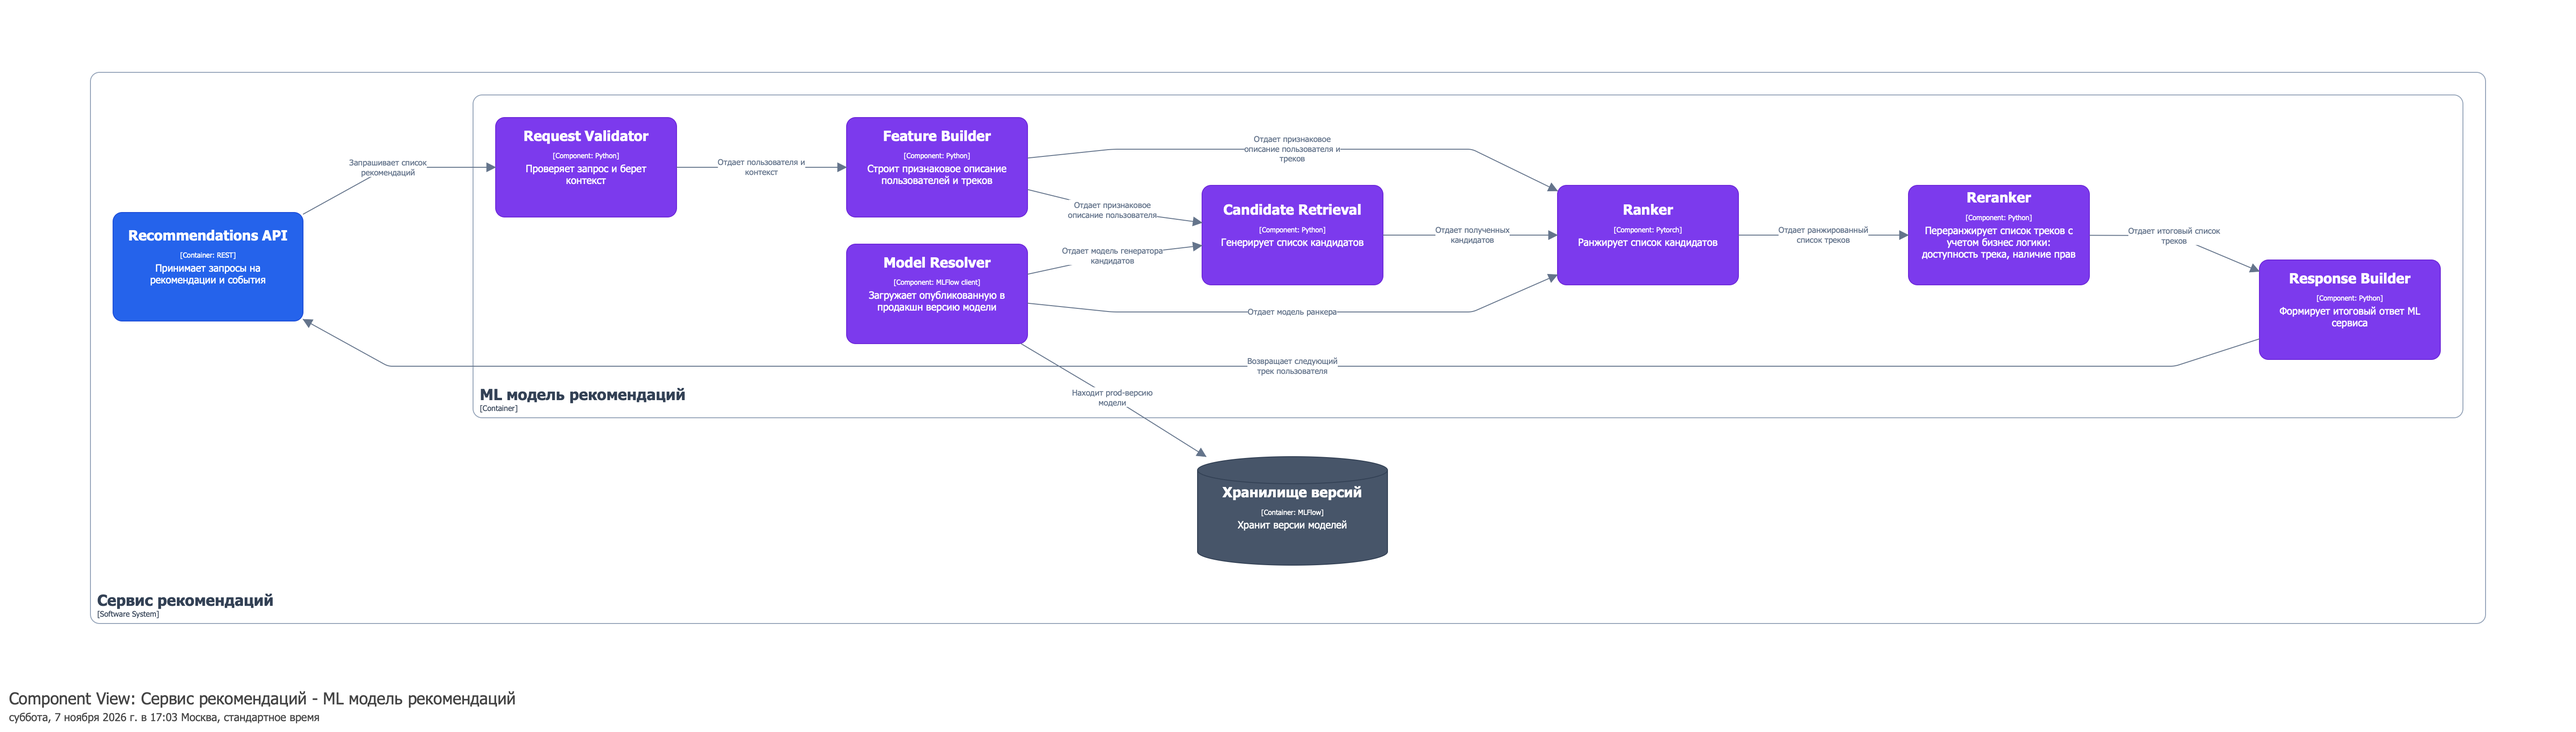
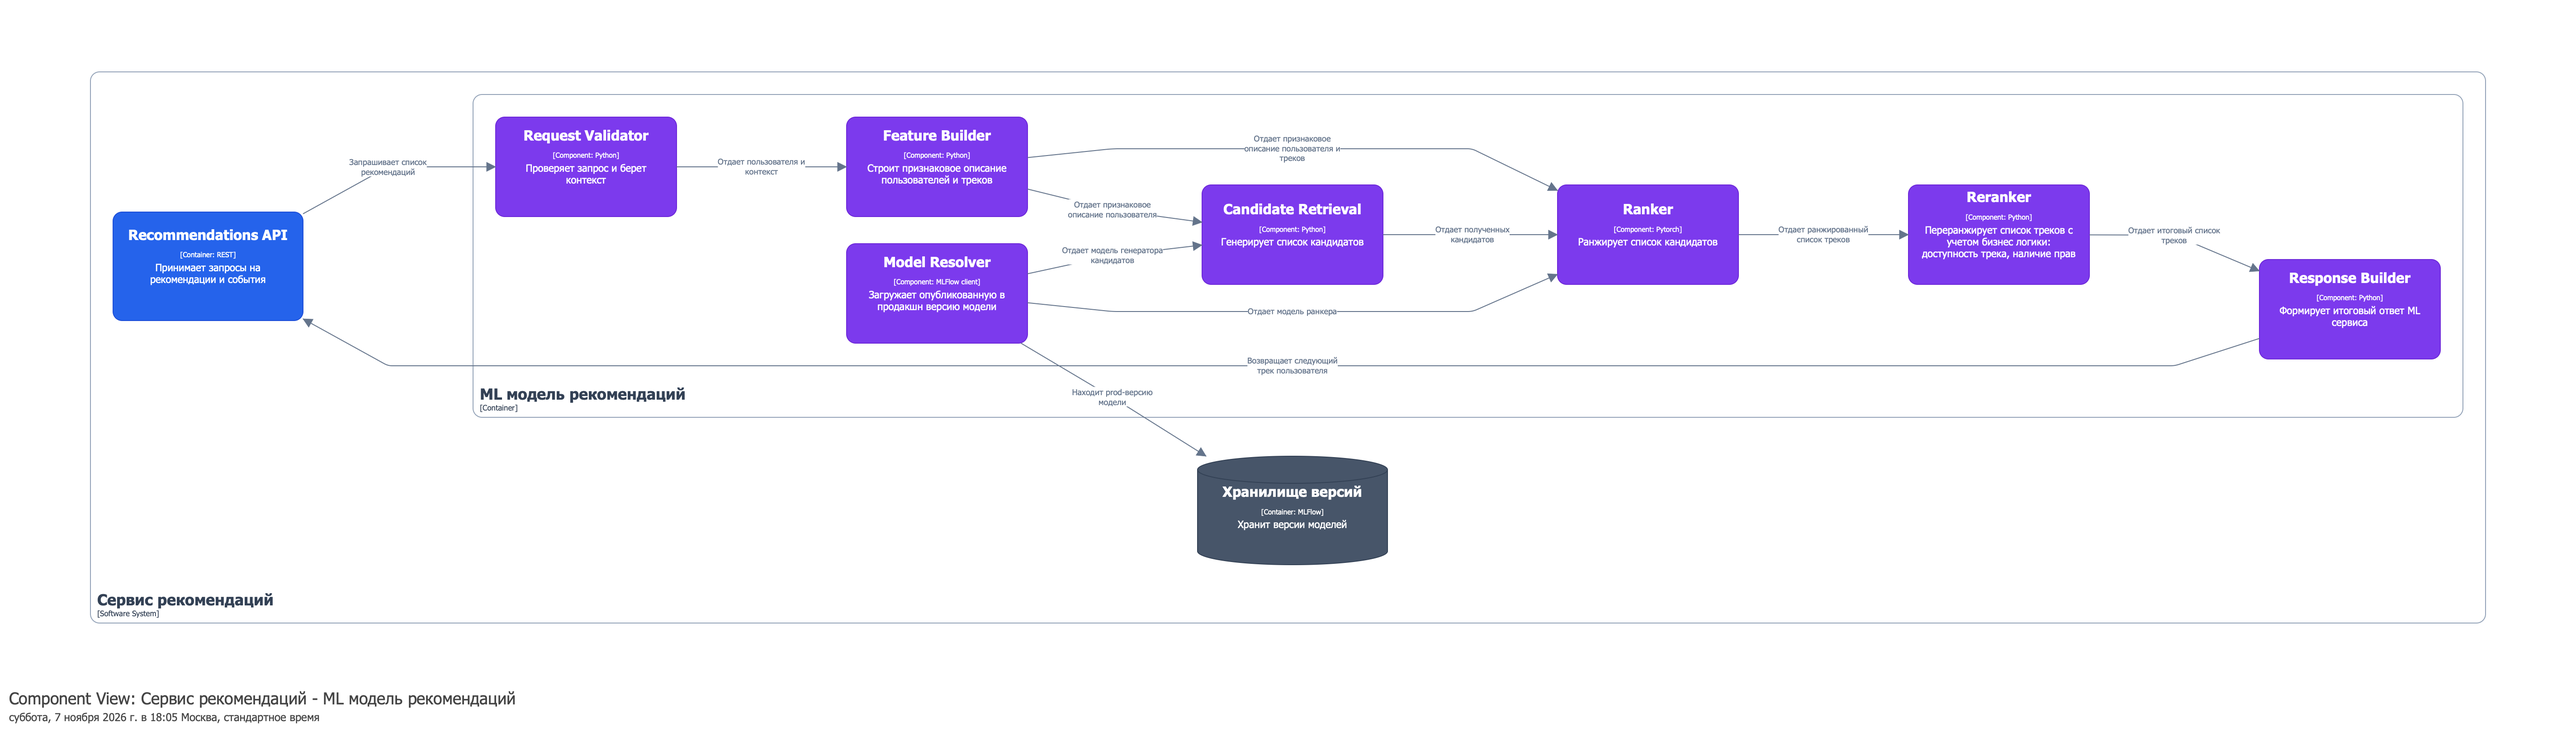
Add some fixes

diff --git a/README.md b/README.md
@@ -6,6 +6,7 @@
 
 
 **Успешный результат:** приложение получило track_id, передало его сервису воспроизведения и начало воспроизведение следующего трека.
+
 **Ошибка**: ml выдал трек с малым скором или фоллбэк не сработала, что возвращается сообщение о недоступности
 
 **In-scope:** Оркестратор запросов, ml рекомендации, feature store, обработка событий, ретрейн и публикация новой модели, обновление признаков
@@ -23,7 +24,7 @@
 Выходные данные: track_id, score, model_version
 
 Условия:
-- score > threshold = 0.5 (модель выдает вероятности)
+- score > threshold = 0.3 (модель выдает вероятности)
 - время ответа < 300 ms
 - иначе вызывается fallback - легкая модель или эвристика
 
